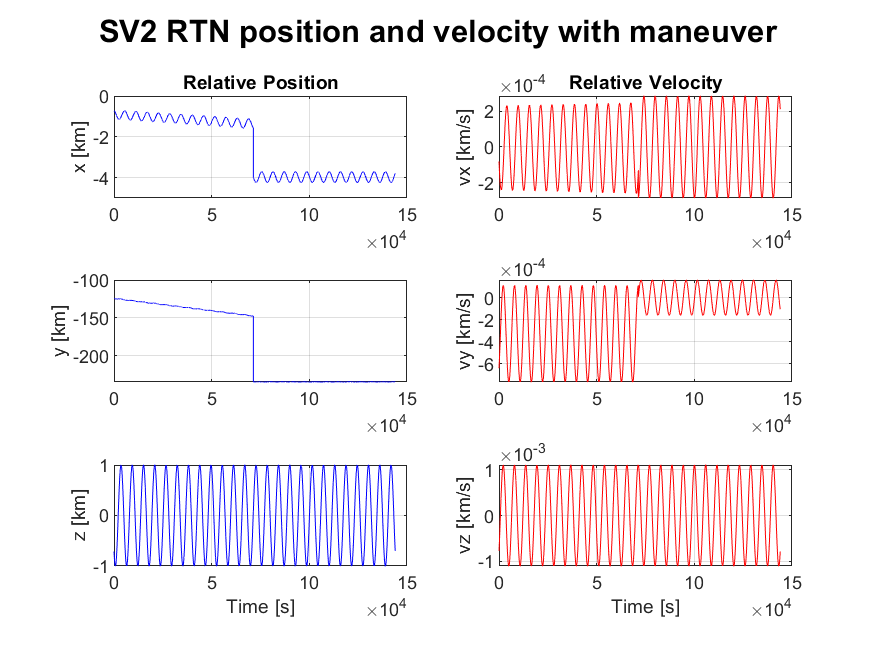
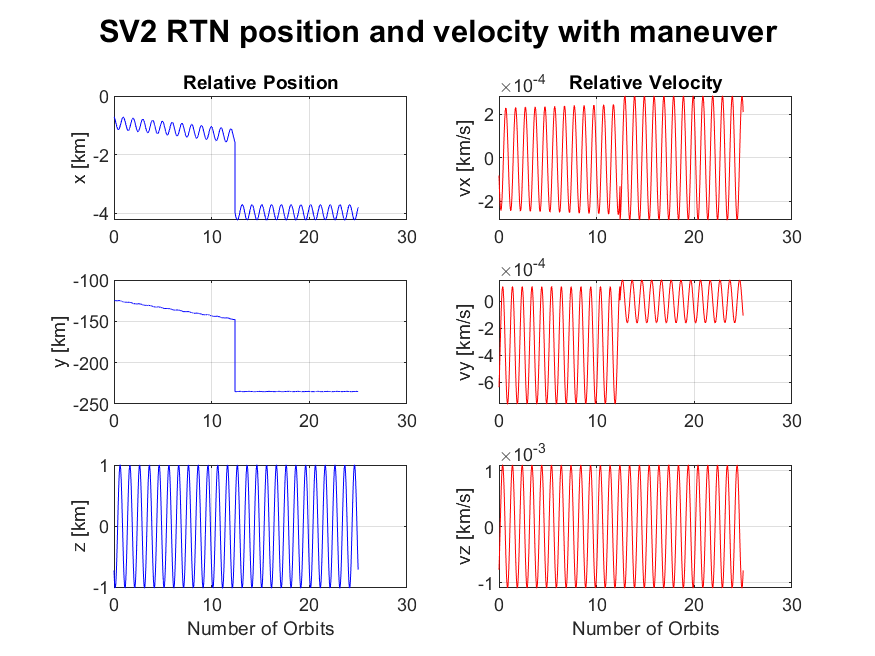
updated plotting function

diff --git a/sim/sim_main.m b/sim/sim_main.m
@@ -159,12 +159,12 @@ if PS2_plots
     
     %%%%%%%% PLOT RELATIVE POSITIONS (IN CHIEF'S RTN FRAME) %%%%%%%
     
-    plot_rel_pos_vel(t_3, SV2_rel_pos, SV2_rel_vel, 'SV2 RTN position and velocity using non-linear relative EOMs', 'figures/SV2_rel_pos_vel_eom.png'); % For part b
-    plot_rel_pos_vel(t_4, SV3_rel_pos, SV3_rel_vel, 'SV3 RTN position and velocity using non-linear relative EOMs', 'figures/SV3_rel_pos_vel_eom.png'); % For part b
-    plot_rel_pos_vel(t_5, rho_SV2_RTN, rho_SV2_RTN_dot, 'SV2 RTN position and velocity using ECI interpolation', 'figures/SV2_rel_pos_vel_eci2rtn.png'); % For part c
-    plot_rel_pos_vel(t_6, rho_SV3_RTN, rho_SV3_RTN_dot, 'SV3 RTN position and velocity using ECI interpolation', 'figures/SV3_rel_pos_vel_eci2rtn.png'); % For part c
-    plot_rel_pos_vel(t_SV2_combined, rho_SV2_RTN_w_maneuver, rho_SV2_RTN_dot_w_maneuver, 'SV2 RTN position and velocity with maneuver','figures/SV2_rel_pos_vel_eom_maneuver.png'); % For part f
-    plot_rel_pos_vel(t_SV3_combined, rho_SV3_RTN_w_maneuver, rho_SV3_RTN_dot_w_maneuver, 'SV3 RTN position and velocity with maneuver','figures/SV3_rel_pos_vel_eom_maneuver.png'); % For part f
+    plot_rel_pos_vel(t_3, t_orbit, SV2_rel_pos, SV2_rel_vel, 'SV2 RTN position and velocity using non-linear relative EOMs', 'figures/SV2_rel_pos_vel_eom.png'); % For part b
+    plot_rel_pos_vel(t_4, t_orbit, SV3_rel_pos, SV3_rel_vel, 'SV3 RTN position and velocity using non-linear relative EOMs', 'figures/SV3_rel_pos_vel_eom.png'); % For part b
+    plot_rel_pos_vel(t_5, t_orbit, rho_SV2_RTN, rho_SV2_RTN_dot, 'SV2 RTN position and velocity using ECI interpolation', 'figures/SV2_rel_pos_vel_eci2rtn.png'); % For part c
+    plot_rel_pos_vel(t_6, t_orbit, rho_SV3_RTN, rho_SV3_RTN_dot, 'SV3 RTN position and velocity using ECI interpolation', 'figures/SV3_rel_pos_vel_eci2rtn.png'); % For part c
+    plot_rel_pos_vel(t_SV2_combined, t_orbit, rho_SV2_RTN_w_maneuver, rho_SV2_RTN_dot_w_maneuver, 'SV2 RTN position and velocity with maneuver','figures/SV2_rel_pos_vel_eom_maneuver.png'); % For part f
+    plot_rel_pos_vel(t_SV3_combined, t_orbit, rho_SV3_RTN_w_maneuver, rho_SV3_RTN_dot_w_maneuver, 'SV3 RTN position and velocity with maneuver','figures/SV3_rel_pos_vel_eom_maneuver.png'); % For part f
     
     %%%%%%% 3D PLOTTING OF ORBITS %%%%%%%%%
     %plot_rel_sat_pos_3D(SV2_rel_pos, 'figures/SV2_3d_traj_rel_eom.png') % For part b
@@ -178,7 +178,7 @@ if PS2_plots
     plot_RT_RN_projections(rho_SV2_RTN, rho_SV3_RTN, 'RTN position using ECI interpolation','figures/RTN_projection_eci2rtn.png') % For part c
 
     %%%%%%% COMPARING ERRORS BETWEEN METHODS %%%%%%%%%
-    compare_rel_pos_error(t_5, rho_SV2_RTN, SV2_rel_pos, rho_SV2_RTN_dot, SV2_rel_vel,'SV2 RTN Error Comparison','figures/SV2_error_in_rel_methods.png'); % For part d
-    compare_rel_pos_error(t_6, rho_SV3_RTN, SV3_rel_pos, rho_SV3_RTN_dot, SV3_rel_vel,'SV3 RTN Error Comparison','figures/SV3_error_in_rel_methods.png'); % For part d
+    compare_rel_pos_error(t_5, t_orbit, rho_SV2_RTN, SV2_rel_pos, rho_SV2_RTN_dot, SV2_rel_vel,'SV2 RTN Error Comparison','figures/SV2_error_in_rel_methods.png'); % For part d
+    compare_rel_pos_error(t_6, t_orbit,  rho_SV3_RTN, SV3_rel_pos, rho_SV3_RTN_dot, SV3_rel_vel,'SV3 RTN Error Comparison','figures/SV3_error_in_rel_methods.png'); % For part d
 end
 

diff --git a/sim/plotting_methods/plot_rel_pos_vel.m b/sim/plotting_methods/plot_rel_pos_vel.m
@@ -1,35 +1,37 @@
-function plot_rel_pos_vel(t, rel_pos, rel_vel, title_string, fig_path)
+function plot_rel_pos_vel(t, t_orbit, rel_pos, rel_vel, title_string, fig_path)
     figure('Color', 'w');
     
     % --- Relative Position Plots ---
     subplot(3, 2, 1);
-    plot(t, rel_pos(:,1), 'b'); grid on;
+    plot(t/t_orbit, rel_pos(:,1), 'b'); grid on;
     ylabel('x [km]');
     title('Relative Position');
     
     subplot(3, 2, 3);
-    plot(t, rel_pos(:,2), 'b'); grid on;
+    plot(t/t_orbit, rel_pos(:,2), 'b'); grid on;
     ylabel('y [km]');
     
     subplot(3, 2, 5);
-    plot(t, rel_pos(:,3), 'b'); grid on;
+    plot(t/t_orbit, rel_pos(:,3), 'b'); grid on;
     ylabel('z [km]');
-    xlabel('Time [s]');
+    %xlabel('Time [s]');
+    xlabel('Number of Orbits');
 
     % --- Relative Velocity Plots ---
     subplot(3, 2, 2);
-    plot(t, rel_vel(:,1), 'r'); grid on;
+    plot(t/t_orbit, rel_vel(:,1), 'r'); grid on;
     ylabel('vx [km/s]');
     title('Relative Velocity');
 
     subplot(3, 2, 4);
-    plot(t, rel_vel(:,2), 'r'); grid on;
+    plot(t/t_orbit, rel_vel(:,2), 'r'); grid on;
     ylabel('vy [km/s]');
 
     subplot(3, 2, 6);
-    plot(t, rel_vel(:,3), 'r'); grid on;
+    plot(t/t_orbit, rel_vel(:,3), 'r'); grid on;
     ylabel('vz [km/s]');
-    xlabel('Time [s]');
+    %xlabel('Time [s]');
+    xlabel('Number of Orbits');
 
     sgtitle(title_string, 'FontWeight', 'bold');
     saveas(gcf, fig_path);

diff --git a/sim/compare_rel_pos_error.m b/sim/compare_rel_pos_error.m
@@ -1,4 +1,4 @@
-function compare_rel_pos_error(t, pos1, pos2, vel1, vel2, title_string,fig_path)
+function compare_rel_pos_error(t, t_orbit, pos1, pos2, vel1, vel2, title_string,fig_path)
     % Compute the error (component-wise)
     error_pos = pos2 - pos1;
     error_vel = vel2 - vel1;
@@ -10,19 +10,21 @@ function compare_rel_pos_error(t, pos1, pos2, vel1, vel2, title_string,fig_path)
 
     for i = 1:3
         subplot(3,2,2*i-1);
-        plot(t, error_pos(:,i), 'r', 'LineWidth', 1.5);
+        plot(t/t_orbit, error_pos(:,i), 'r', 'LineWidth', 1.5);
         grid on;
         ylabel(component_labels_pos{i});
         if i == 3
-            xlabel('Time [s]');
+            %xlabel('Time [s]');
+            xlabel('Number of Orbits')
         end
 
         subplot(3, 2, 2*i);
-        plot(t, error_vel(:,i), 'r', 'LineWidth', 1.5);
+        plot(t/t_orbit, error_vel(:,i), 'r', 'LineWidth', 1.5);
         grid on;
         ylabel(component_labels_vel{i});
         if i == 3
-            xlabel('Time [s]');
+            %xlabel('Time [s]');
+            xlabel('Number of Orbits')
         end
     end
 
